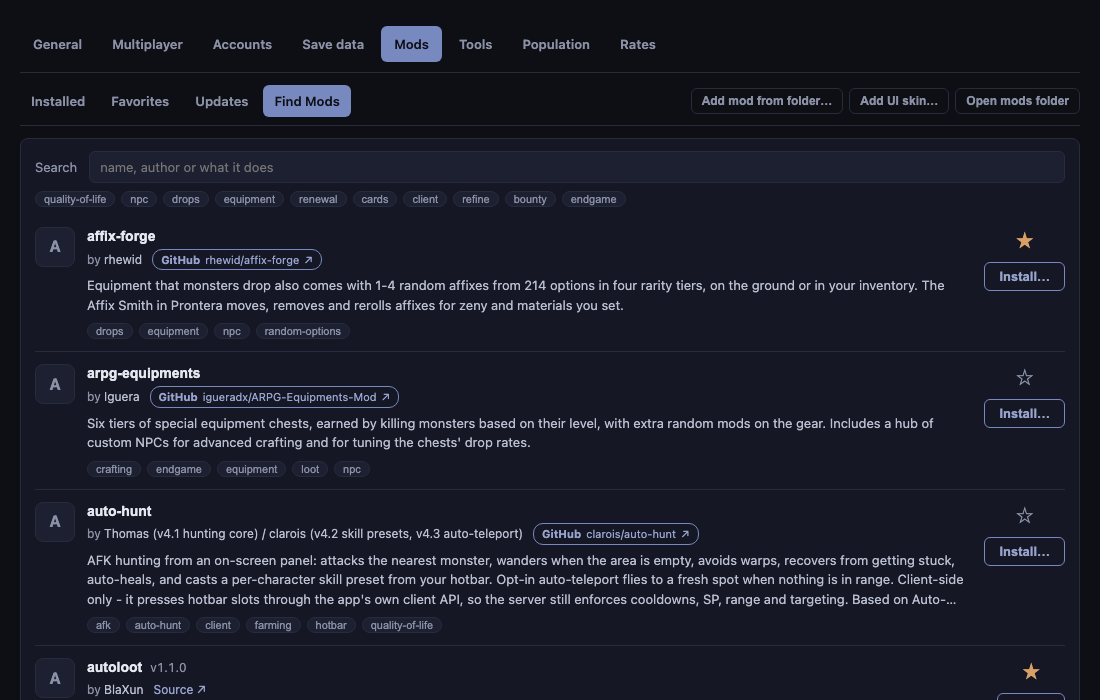
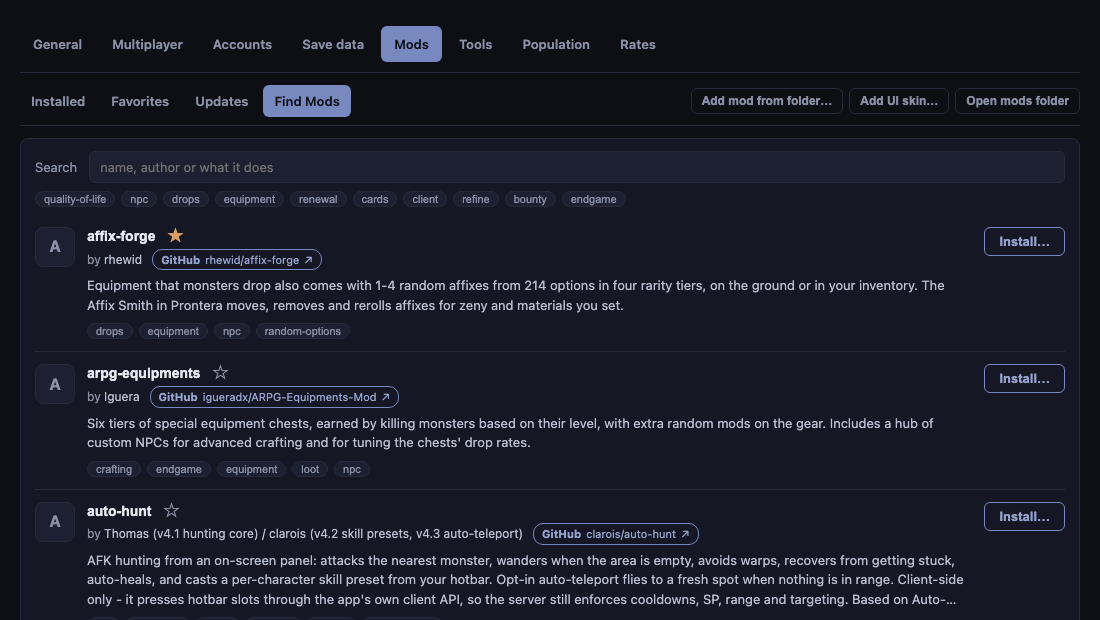
Mods favorites: the star sits on the title line
In Find Mods the star is now beside the mod's name and version, not with the
Install button. In Installed it's on the name's line, before the letter tile:
the rest of the row is one button, and a button inside it couldn't be reached
from the keyboard. Screenshots updated, with one of Installed.

Claude-Session: https://claude.ai/code/session_01AXrgSbyA2NZ25VZ7MtSWvw

diff --git a/src/settings.html b/src/settings.html
@@ -188,7 +188,7 @@
   .mgroup:first-child { margin-top: 2px; }
   .mrow { border-bottom: 1px solid var(--line); }
   .mrow:last-child { border-bottom: 0; }
-  .mrow-main { display: grid; grid-template-columns: 34px minmax(0, 1fr); gap: 10px; align-items: center; }
+  .mrow-main { display: grid; grid-template-columns: 34px auto minmax(0, 1fr); gap: 4px 10px; align-items: center; }
   .mrow-hit { display: grid; grid-template-columns: 36px minmax(0, 1fr); gap: 10px; align-items: center;
     width: 100%; min-width: 0; padding: 9px 0; background: none; border: 0; border-radius: 6px;
     color: inherit; font: inherit; text-align: left; cursor: pointer; }
@@ -238,6 +238,8 @@
   .star:hover { color: var(--text); }
   .star[aria-pressed="true"] { color: var(--warn); }
   .star:focus-visible { outline: 1px solid var(--accent-dim); border-radius: 4px; }
+  .modhead .star { align-self: baseline; padding: 0 4px; font-size: 16px; }
+  .mrow-main .star { align-self: flex-start; margin-top: 9px; padding: 0 2px; }
   .favrow { display: flex; align-items: center; gap: 8px; padding: 6px 0; border-bottom: 1px solid var(--line, #8882); }
   .favrow:last-child { border-bottom: none; }
   .favrow .favname { font-weight: 600; font-size: 13px; color: var(--text); }
@@ -2208,7 +2210,7 @@ function modRow(m, kindBoxes, pendingNames) {
   head.append(badges);
   text.append(head, el('div', 'mone', m.refused ? 'Not loaded — ' + m.reason : (m.description || '')));
   hit.append(letterTile(m.name), text);
-  main.append(sw, hit, starButton(m.name));
+  main.append(sw, starButton(m.name), hit);
 
   const more = el('div', 'mrow-more');
   more.hidden = !open;
@@ -2891,6 +2893,7 @@ function modCard(mod, { detail = false } = {}) {
   }
   head.append(name);
   if (mod.version) head.append(el('span', 'modver', 'v' + mod.version.replace(/^v/i, '')));
+  head.append(starButton(mod.name));
   body.append(head);
   const byline = el('div', 'modbyline');
   if (mod.author) {
@@ -2906,7 +2909,7 @@ function modCard(mod, { detail = false } = {}) {
     if (mod.tags.length) body.append(tagChips(mod));
   }
   const side = el('div', 'modside');
-  side.append(starButton(mod.name), actionButton(mod, state));
+  side.append(actionButton(mod, state));
   card.append(body, side);
   return card;
 }
